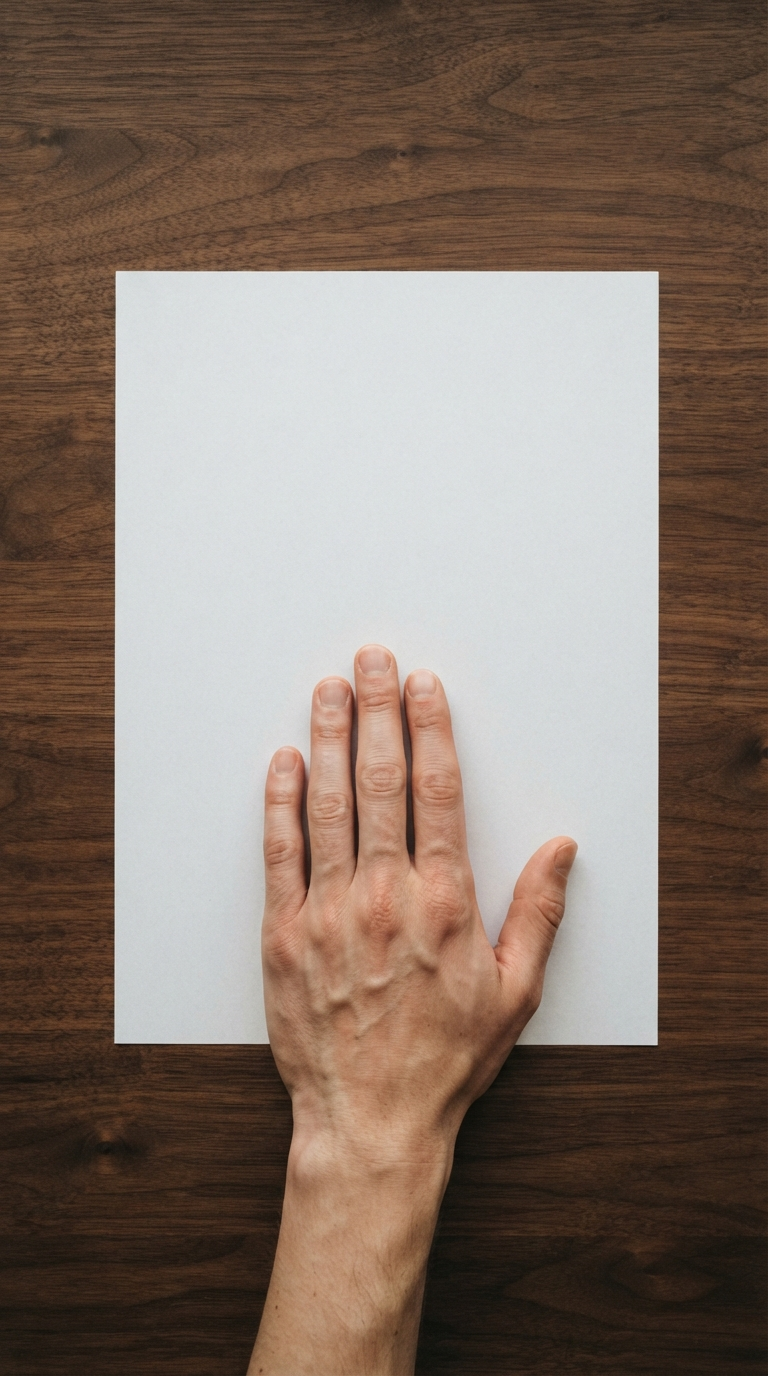
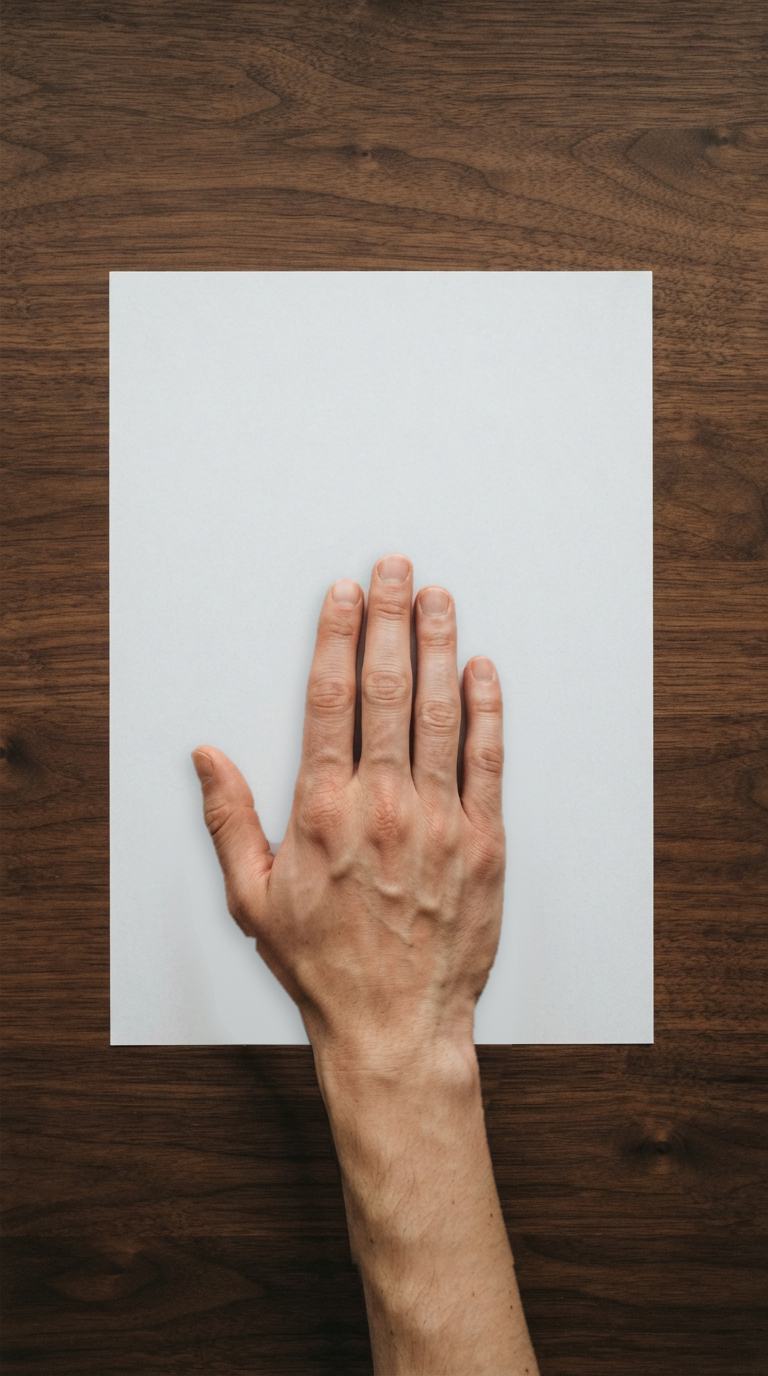
How it works: swap hero to the wrist-aligned right-hand photo
Replace public/images/hand-on-a4-camera.png with the corrected image from
Palmate.pen frame sZSWm ("[備用] 14 Easy scan · live · 右手版 · 手腕貼齊（修正版）",
images/scan-right-hand-wrist-aligned.png), losslessly recompressed
(pixel-identical, 1.37 MB). Same 768x1376 size.

The paper sits 5 px further left in the new photo, so the four corner
checks on /how-it-works move to match: left 15% -> 14.3%, right 86% -> 85%
(measured paper x 110..652 of 768; cover-cropped into the 342x480 box).

diff --git a/src/app/home.css b/src/app/home.css
@@ -853,19 +853,19 @@ body:has(.landing-page) .siteFooter-horizon::after {
 }
 .home-how-page .home-hero-corner.tl {
   top: 11.5%;
-  left: 15%;
+  left: 14.3%;
 }
 .home-how-page .home-hero-corner.tr {
   top: 11.5%;
-  left: 86%;
+  left: 85%;
 }
 .home-how-page .home-hero-corner.bl {
   top: 83%;
-  left: 15%;
+  left: 14.3%;
 }
 .home-how-page .home-hero-corner.br {
   top: 83%;
-  left: 86%;
+  left: 85%;
 }
 .home-how-page .home-hero-badge {
   top: auto;
